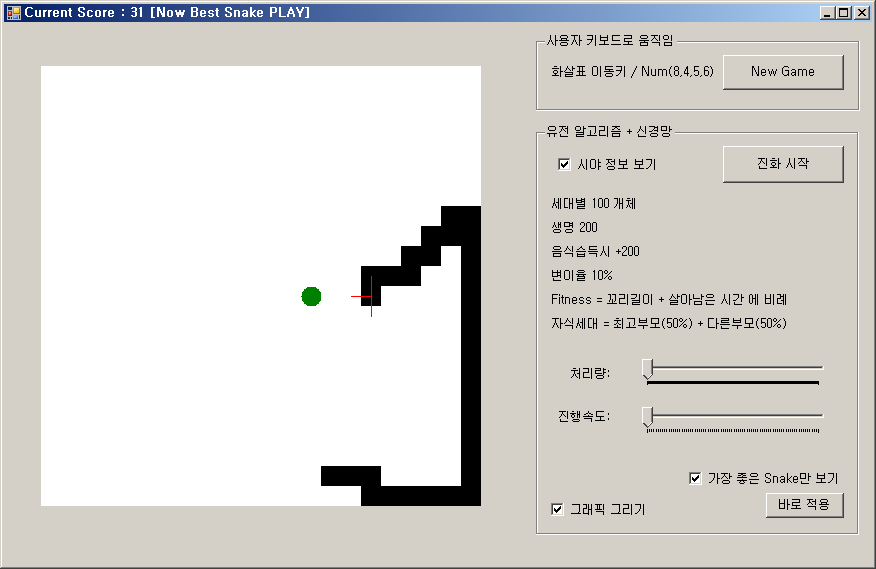
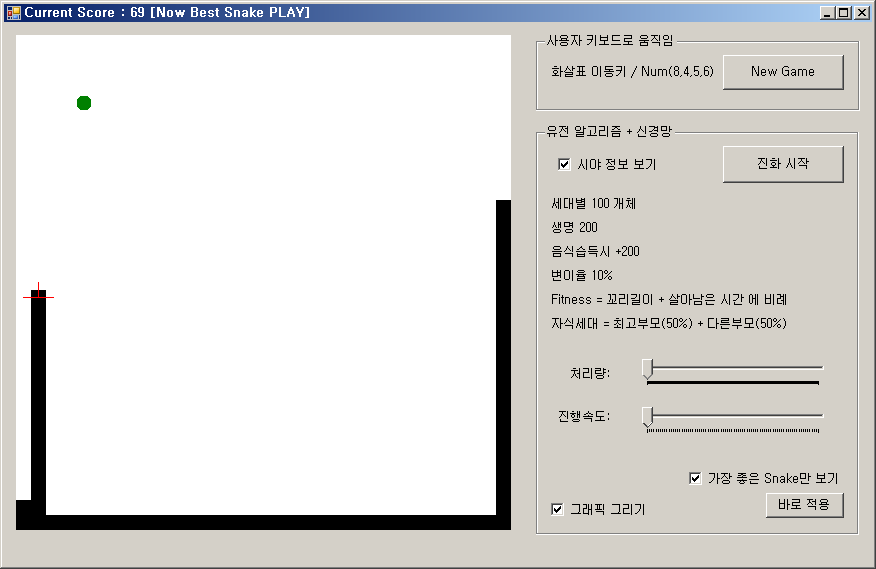
Modified Tile Size

diff --git a/Snake/Form1.Designer.cs b/Snake/Form1.Designer.cs
@@ -57,7 +57,7 @@
             // 
             this.picCanvas.Location = new System.Drawing.Point(12, 12);
             this.picCanvas.Name = "picCanvas";
-            this.picCanvas.Size = new System.Drawing.Size(500, 500);
+            this.picCanvas.Size = new System.Drawing.Size(495, 495);
             this.picCanvas.TabIndex = 0;
             this.picCanvas.TabStop = false;
             this.picCanvas.Paint += new System.Windows.Forms.PaintEventHandler(this.picCanvas_Paint);

diff --git a/Snake/Snake.cs b/Snake/Snake.cs
@@ -11,7 +11,7 @@ namespace Snake
 {
     class Snake
     {
-        public const int SIZE = 10;
+        public const int SIZE = 15;
         public const int LIFE = 200;
         public enum DIRECTION
         {

diff --git a/Snake/Food.cs b/Snake/Food.cs
@@ -9,7 +9,7 @@ namespace Snake
 {
     class Food
     {
-        public const int SIZE = 10;
+        public const int SIZE = 15;
 
         public int x;
         public int y;
